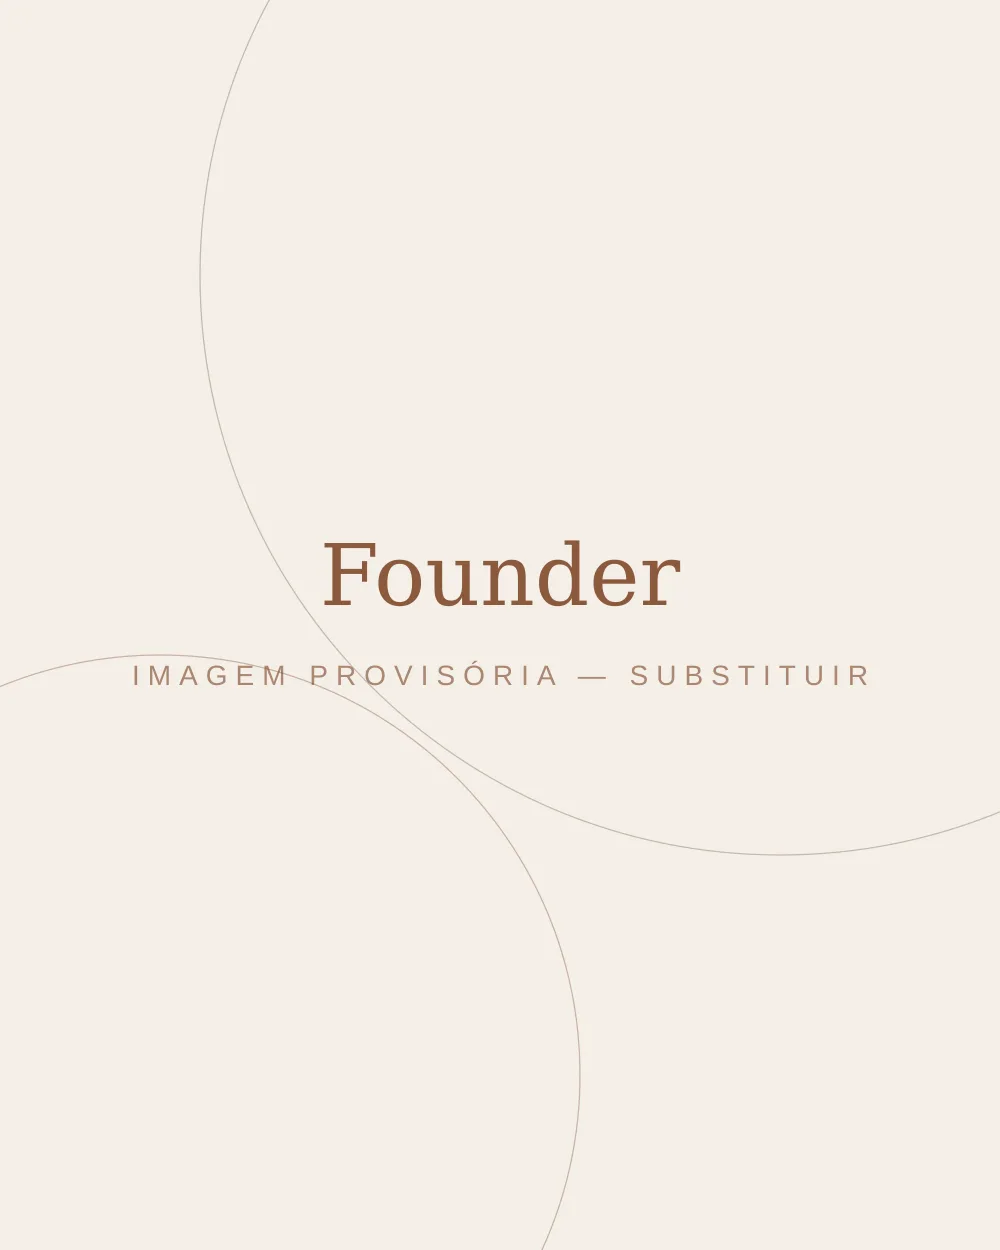
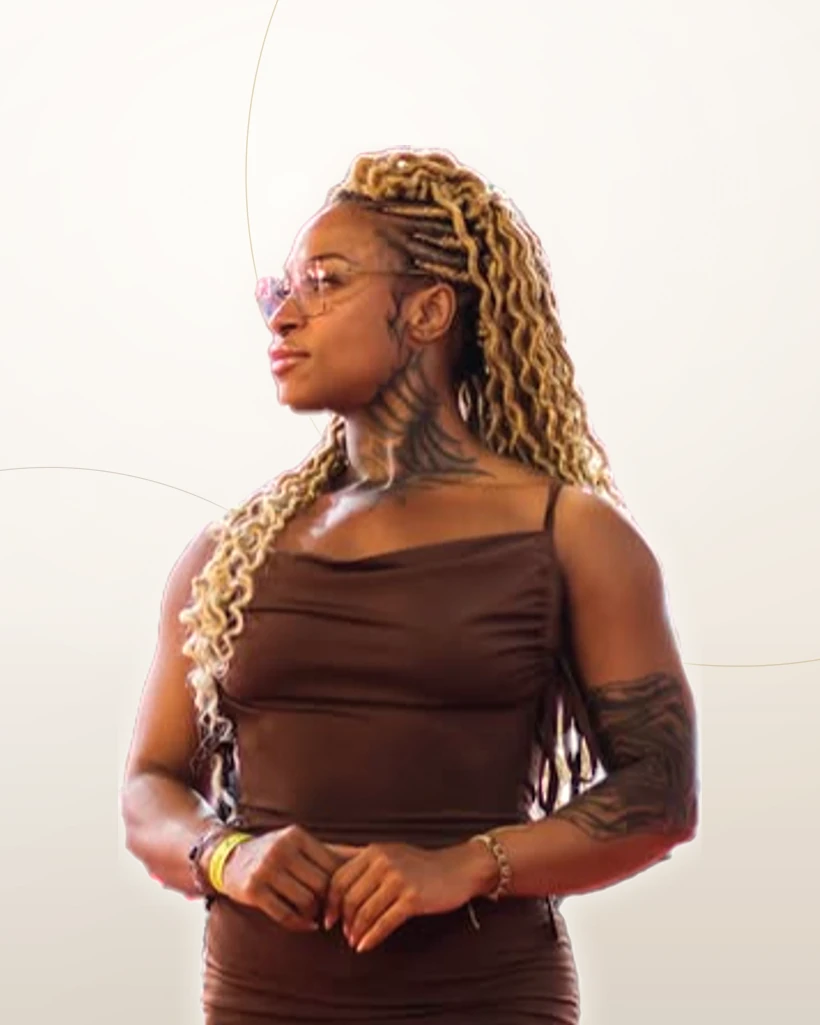
feat: retrato da fundadora na secao Sobre
Substitui o placeholder de public/images/founder.webp pelo retrato da
Jheniffer, composto sobre fundo Ivory a partir do recorte enviado.

Composicao (scripts/build-portrait-image.mjs, reproduzivel):

- matte extraida por flood fill a partir das bordas, e nao por chroma key:
  preserva brancos internos como mechas claras, oculos e reflexos;
- matte erodida e suavizada, eliminando a franja branca do recorte;
- correcao quente leve (saturacao 0.92, ganho por canal) para o retrato
  conversar com Ivory / Espresso;
- fundo editorial proprio: gradiente Ivory, arcos herdados do simbolo e
  luz suave, no lugar do fundo colorido do original;
- light wrap Ivory nas bordas, para o recorte nao parecer colado.

Sem sombra projetada de proposito: sobre Ivory chapado, a silhueta borrada
circunda a figura inteira e suja o fundo em vez de dar volume. O peso vem
do gradiente de chao do proprio fundo.

Duas armadilhas do sharp estao documentadas no script porque custaram
renders quebrados: toColourspace("b-w") e obrigatorio ao ler uma matte de
1 canal como buffer cru (sem ele o retorno vem em sRGB, com 3 canais, e a
imagem sai entrelacada em listras), e o blend dest-in exige ensureAlpha na
base, senao o recorte nao acontece e sobra o retangulo inteiro. O script
valida o tamanho da matte e falha cedo se o primeiro caso voltar.

Alt text passa a descrever a pessoa retratada.

Limitacao conhecida: o original tem 316x385, o que exige ampliacao de 2,3x
[…]

diff --git a/studio-macleny-nails-lp/lib/content.ts b/studio-macleny-nails-lp/lib/content.ts
@@ -246,7 +246,7 @@ export const founder = {
   ],
   image: {
     src: "/images/founder.webp",
-    alt: "Retrato editorial em ambiente de trabalho com luz natural suave.",
+    alt: "Jheniffer Macleny, fundadora do studio, em retrato editorial de perfil sobre fundo claro.",
   },
 } as const;
 
